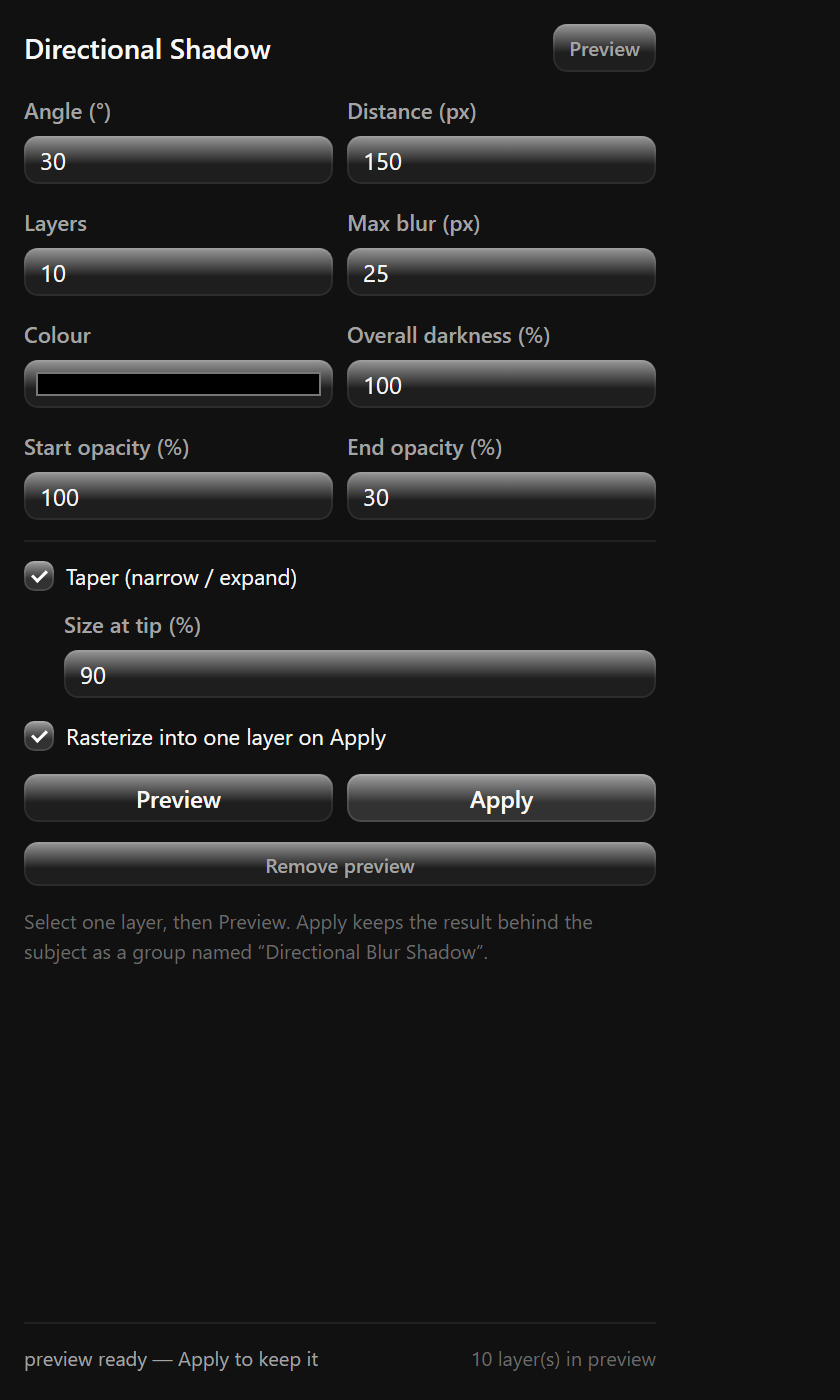
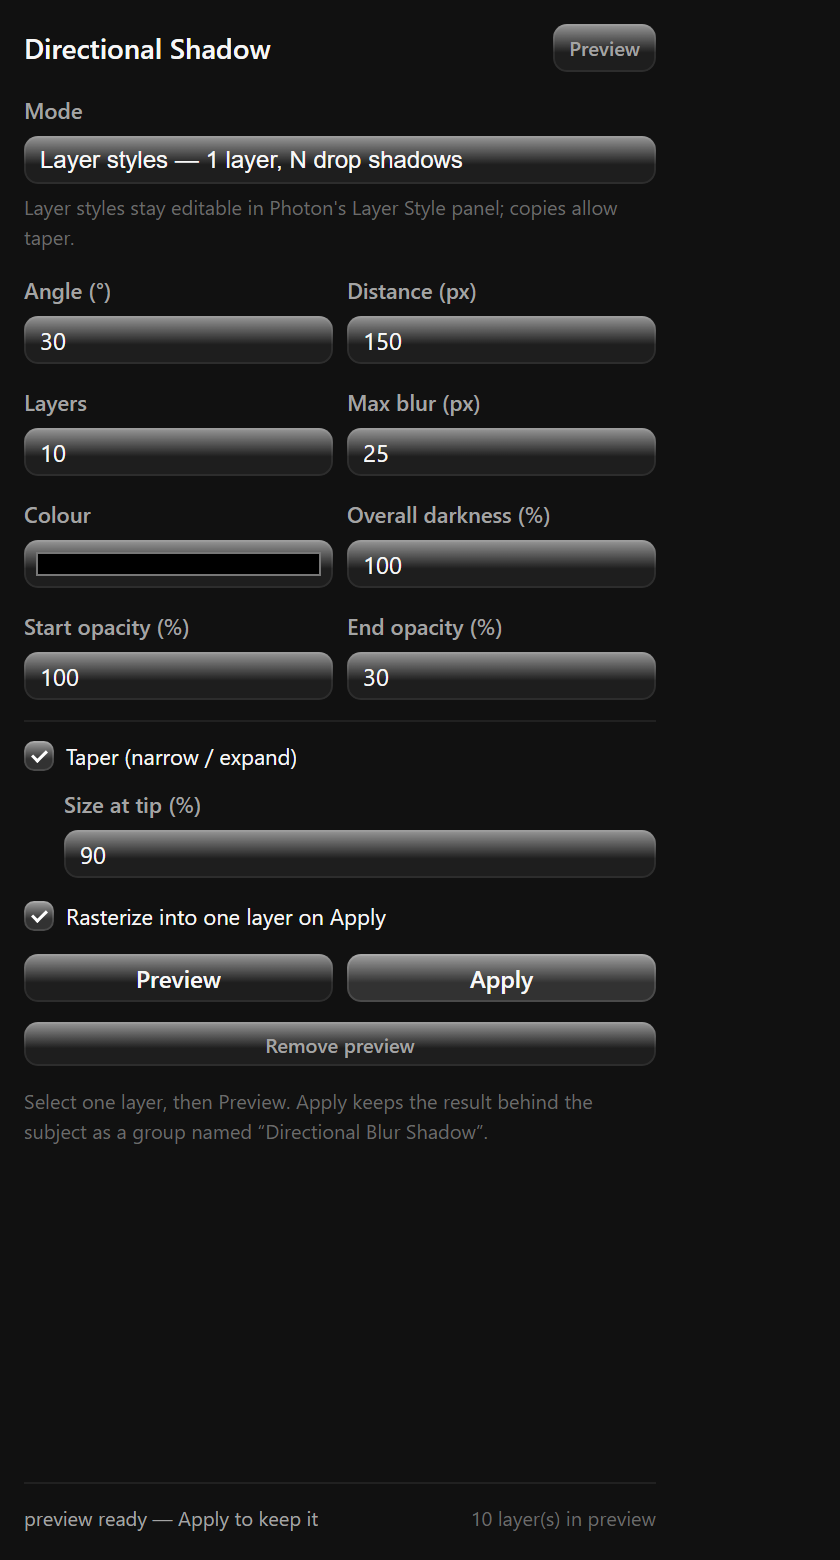
feat: add layer-style mode that stacks drop shadows on one hidden-copy layer

diff --git a/plugin/shadow.js b/plugin/shadow.js
@@ -233,6 +233,143 @@
     }
   }
 
+
+  /* ------------------------------------------------------------------ layer styles */
+
+  /**
+   * Normalise effect.describe(kind:"dropShadow") into a { name -> default } map.
+   * The host may answer with an array of parameter descriptors or a plain defaults object.
+   */
+  function describeToMap(described) {
+    const map = new Map();
+    const payload = described && (described.params || described.parameters || described);
+    if (Array.isArray(payload)) {
+      for (const entry of payload) {
+        if (!entry) continue;
+        const name = entry.name || entry.key || entry.id;
+        if (!name) continue;
+        map.set(String(name).toLowerCase(), { name: String(name), value: entry.default });
+      }
+    } else if (payload && typeof payload === "object") {
+      for (const [name, value] of Object.entries(payload)) {
+        map.set(String(name).toLowerCase(), { name, value });
+      }
+    }
+    return map;
+  }
+
+  /** Pick the first available parameter whose name matches the pattern. */
+  function pickParam(map, pattern) {
+    for (const [key, entry] of map) {
+      if (pattern.test(key)) return entry.name;
+    }
+    return null;
+  }
+
+  /**
+   * Build one dropShadow effect payload from the host's parameter names.
+   * Taper is not representable with a layer style, so it is ignored in effects mode.
+   */
+  const CANONICAL_EFFECT_KEYS = {
+    angle: "angle",
+    distance: "distance",
+    size: "size",
+    opacity: "opacity",
+    colour: "color",
+  };
+
+  function effectParams(described, entry, params) {
+    const map = describeToMap(described);
+    const out = {};
+    if (map.size === 0) {
+      // describe() unavailable: fall back to Photon's documented effect parameter names
+      return {
+        angle: params.angle,
+        distance: Math.hypot(entry.dx || 0, entry.dy || 0) || entry.distance || 0,
+        size: Math.max(0.1, entry.blur),
+        opacity: Math.max(0.001, entry.opacity),
+        color: rgba(params.colour),
+      };
+    }
+    void CANONICAL_EFFECT_KEYS;
+    const set = (pattern, value) => {
+      const name = pickParam(map, pattern);
+      if (name) out[name] = value;
+    };
+    set(/^(angle|direction)$/, params.angle);
+    set(/distance|offset/, entry.distance !== undefined ? entry.distance : Math.hypot(entry.dx || 0, entry.dy || 0));
+    set(/^(size|blur|radius)/, Math.max(0.1, entry.blur));
+    set(/opacity/, Math.max(0.001, entry.opacity));
+    set(/colou?r/, rgba(params.colour));
+    set(/blend/, "normal");
+    set(/spread/, 0);
+    set(/noise/, 0);
+    set(/anti/, true);
+    set(/knock/, false);
+    set(/use.*global/, false);
+    return out;
+  }
+
+  /**
+   * Effects mode: one duplicate layer whose interior is hidden (fillOpacity 0) carrying N
+   * dropShadow layer styles. Photon lets `layer.effect.set` append by passing index === count,
+   * so several shadows of the same kind can coexist and stay editable in the Layer Style panel.
+   */
+  async function buildWithEffects(api, options) {
+    const documentId = options.documentId;
+    const sourceLayerId = options.sourceLayerId;
+    const plan = planLayers(options.params);
+    const onStep = options.onStep || (() => {});
+    const doc = await api.documents.active();
+
+    let described = null;
+    try {
+      described = await execute(api, documentId, "effect.describe", { kind: "dropShadow" });
+    } catch {
+      described = null; // fall back to the documented Photoshop-style names
+    }
+
+    const duplicated = await execute(api, documentId, "layer.duplicate", { layerIds: [sourceLayerId] });
+    const layerId = firstId(duplicated);
+    if (!layerId) throw new Error("Photon did not return the duplicated layer id.");
+
+    // Hide the copy's own pixels: only its effects should be visible.
+    await execute(api, documentId, "layer.update", {
+      layerId,
+      properties: { name: GROUP_NAME, fillOpacity: 0 },
+    });
+
+    let index = 0;
+    for (const entry of plan.layers) {
+      const effect = {
+        distance: Math.hypot(entry.dx, entry.dy),
+        blur: entry.blur,
+        opacity: entry.opacity,
+      };
+      await execute(api, documentId, "layer.effect.set", {
+        layerIds: [layerId],
+        kind: "dropShadow",
+        index,
+        params: effectParams(described, effect, plan.params),
+      });
+      index += 1;
+      onStep(index, plan.layers.length);
+    }
+
+    const after = await api.documents.active();
+    const sourceIndex = (after.layers || []).findIndex((item) => item.id === sourceLayerId);
+    const copyIndex = (after.layers || []).findIndex((item) => item.id === layerId);
+    const topFirst = copyIndex < sourceIndex;
+    return {
+      layerIds: [layerId],
+      groupId: layerId,
+      mode: "effects",
+      effects: index,
+      topFirst,
+      plan,
+    };
+  }
+
   return {
     DEFAULTS,
     GROUP_NAME,
@@ -243,6 +380,9 @@
     rgba,
     firstId,
     buildShadow,
+    buildWithEffects,
     removeShadow,
+    describeToMap,
+    effectParams,
   };
 });

diff --git a/plugin/app.js b/plugin/app.js
@@ -11,6 +11,8 @@ const Shadow = globalThis.PhotonShadow;
 
 const el = {
   badge: document.getElementById("badge"),
+  mode: document.getElementById("mode"),
+  modeHint: document.getElementById("modeHint"),
   angle: document.getElementById("angle"),
   distance: document.getElementById("distance"),
   steps: document.getElementById("steps"),
@@ -31,7 +33,7 @@ const el = {
 };
 
 let api = null;
-let preview = null; // { layerIds, groupId } of the current preview
+let preview = null; // { layerIds, groupId, mode, effects } of the current preview
 let busy = false;
 let lastParams = { ...Shadow.DEFAULTS };
 
@@ -46,6 +48,10 @@ function setStatus(text) {
 
 function errText(error) {
   return String((error && error.message) || error || "unknown error");
+}
+
+function readMode() {
+  return el.mode.value === "copies" ? "copies" : "effects";
 }
 
 function readParams() {
@@ -85,6 +91,23 @@ function setBusy(value) {
   el.removePreview.disabled = value;
 }
 
+async function buildFor(doc, layerId, params, mode) {
+  if (mode === "effects") {
+    return Shadow.buildWithEffects(api, {
+      documentId: doc.id,
+      sourceLayerId: layerId,
+      params,
+      onStep: (done, total) => setStatus("shadow " + done + " / " + total),
+    });
+  }
+  return Shadow.buildShadow(api, {
+    documentId: doc.id,
+    sourceLayerId: layerId,
+    params: { ...params, rasterize: false },
+    onStep: (done, total) => setStatus("layer " + done + " / " + total),
+  });
+}
+
 async function selectedLayer() {
   const doc = await api.documents.active();
   if (!doc) throw new Error("No active document. Open an image in Photon first.");
@@ -121,15 +144,16 @@ async function runPreview() {
     lastParams = readParams();
     await dropPreview();
     const { doc, layerId } = await selectedLayer();
-    setStatus("building " + lastParams.steps + " layers…");
-    preview = await Shadow.buildShadow(api, {
-      documentId: doc.id,
-      sourceLayerId: layerId,
-      params: lastParams,
-      onStep: (done, total) => setStatus("layer " + done + " / " + total),
-    });
+    const mode = readMode();
+    setStatus(mode === "effects" ? "adding " + lastParams.steps + " drop shadows…" : "building " + lastParams.steps + " layers…");
+    preview = await buildFor(doc, layerId, lastParams, mode);
+    preview.mode = mode;
     badge("Preview", "busy");
-    setStatus("preview ready — Apply to keep it");
+    setStatus(
+      mode === "effects"
+        ? "preview ready — " + preview.effects + " drop shadows on one layer"
+        : "preview ready — Apply to keep it",
+    );
     await markPreview();
   } catch (error) {
     badge("Failed", "danger");
@@ -147,17 +171,14 @@ async function runApply() {
     lastParams = readParams();
     const { doc, layerId } = await selectedLayer();
 
+    const mode = readMode();
     if (!preview) {
-      setStatus("building " + lastParams.steps + " layers…");
-      preview = await Shadow.buildShadow(api, {
-        documentId: doc.id,
-        sourceLayerId: layerId,
-        params: lastParams,
-        onStep: (done, total) => setStatus("layer " + done + " / " + total),
-      });
+      setStatus(mode === "effects" ? "adding " + lastParams.steps + " drop shadows…" : "building " + lastParams.steps + " layers…");
+      preview = await buildFor(doc, layerId, lastParams, mode);
+      preview.mode = mode;
     }
 
-    if (lastParams.rasterize && preview.groupId) {
+    if (mode === "copies" && lastParams.rasterize && preview.groupId) {
       setStatus("rasterizing…");
       await api.documents.execute(
         "layer.rasterize",
@@ -194,7 +215,17 @@ async function runRemovePreview() {
 
 function wire() {
   el.taper.addEventListener("change", () => {
-    el.taperEnd.disabled = !el.taper.checked;
+    el.taperEnd.disabled = !el.taper.checked || readMode() === "effects";
+  });
+  el.mode.addEventListener("change", () => {
+    const effects = readMode() === "effects";
+    el.rasterize.disabled = effects;
+    el.taper.disabled = false;
+    el.taperEnd.disabled = effects || !el.taper.checked;
+    el.modeHint.textContent = effects
+      ? "One layer with N drop shadows: editable in the Layer Style panel, no taper."
+      : "N duplicated layers: supports taper, rasterize optional.";
+    setStatus(effects ? "effects mode" : "copies mode");
   });
   el.preview.addEventListener("click", () => void runPreview());
   el.apply.addEventListener("click", () => void runApply());

diff --git a/plugin/index.html b/plugin/index.html
@@ -12,6 +12,17 @@
         <span id="badge" class="badge ok">Ready</span>
       </header>
 
+      <div class="field">
+        <label class="label" for="mode">Mode</label>
+        <select id="mode" class="input">
+          <option value="effects" selected>Layer styles — 1 layer, N drop shadows</option>
+          <option value="copies">Layer copies — N layers, supports taper</option>
+        </select>
+        <p id="modeHint" class="hint">
+          Layer styles stay editable in Photon's Layer Style panel; copies allow taper.
+        </p>
+      </div>
+
       <div class="row">
         <div class="field">
           <label class="label" for="angle">Angle (°)</label>

diff --git a/plugin/panel.css b/plugin/panel.css
@@ -185,6 +185,18 @@ input:focus-visible {
   opacity: 0.5;
 }
 
+select.input {
+  appearance: none;
+  -webkit-appearance: none;
+  padding-right: 8px;
+  cursor: pointer;
+}
+
+select.input option {
+  background: var(--ph-black-5, #151515);
+  color: var(--sh-text);
+}
+
 .input.colour {
   padding: 2px 4px;
   height: var(--sh-control-height);

diff --git a/README.md b/README.md
@@ -24,6 +24,19 @@ selected layer in a chosen direction, blurring, fading and optionally tapering a
 | Size at tip (%) | 1–500 | 90 | Taper amount at the far end |
 | Rasterize into one layer | on/off | on | Applied only when you press Apply |
 
+## Two build modes
+
+| Mode | What it builds | Pros | Cons |
+| --- | --- | --- | --- |
+| **Layer styles** (default) | One duplicate layer whose `fillOpacity` is 0, carrying **N `dropShadow` layer effects** (appended via `layer.effect.set` with increasing `index`) | Stays editable in Photon's **Layer Style** panel, one extra layer only, effects scale with the layer | Taper is not expressible as an effect |
+| **Layer copies** | N duplicated layers, each filled, blurred and faded | Full control incl. **taper** | More layers; rasterize on Apply to flatten |
+
+`layer.effect.set` documents `index` as "defaults to zero and may equal the current count to
+append", so several drop shadows of the same kind can coexist on one layer — that is what makes
+the effects mode possible. The plugin reads the real parameter names from
+`effect.describe({kind:"dropShadow"})` at runtime and falls back to canonical names when the host
+does not answer.
+
 ## How it maps to Photon operations
 
 | Affinity (JSX) | Photon plugin operation |
@@ -67,6 +80,19 @@ from that. The shadow therefore lands directly behind the subject in either conv
   than the other steps do.
 - The preview lives in the document until you Apply or Remove it. Closing the panel with a
   preview on screen leaves it behind — press **Remove preview** first.
+
+## Changelog
+
+### 0.2.0
+
+- New **Layer styles** mode: the shadow is built from N `dropShadow` layer effects stacked on one
+  hidden-copy layer (`fillOpacity: 0`), instead of N duplicated layers. Result stays editable in
+  Photon's Layer Style panel and keeps the layer stack clean.
+- Effect parameter names are discovered at runtime with `effect.describe`, with a canonical
+  fallback, so the plugin still works if the host does not answer.
+- Mode selector in the panel; taper and rasterize are only offered in **Layer copies** mode
+  (taper cannot be expressed as a drop shadow effect).
+- Tests grew to 16 (describe parsing, parameter mapping, effects pipeline order and indices).
 
 ## Testing
 
